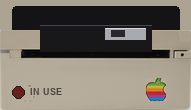
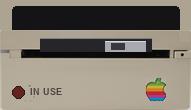
style(IIgs ui): show only the disk's leading edge in the 3.5" slot
The loaded art drew a full card standing in the slot, and once the band above the
face went dark the two touched and turned the top half of the icon into one black
mass. A 14px edge with the metal shutter keeps the 3.5" cue and leaves the beige
face visible between them.

Changed region(s): [[0.2094, 0.2182, 0.8115, 0.4909]]

diff --git a/AGENTS.md b/AGENTS.md
@@ -510,7 +510,10 @@ platform is ROM 03).
   the 5.25" motor line never drives it. The icons are composited from
   `apple-35-floppy-drive.png` with the house layout (activity lamp bottom-left,
   filename across the slot, rainbow apple bottom-right so it shares the Disk II
-  and hard-card corner, which is also where the swapper badge lands).
+  and hard-card corner, which is also where the swapper badge lands). The loaded
+  art shows only the disk's **leading edge** in the slot: a full card standing up
+  there touches the dark band and the two merge into one black mass over the top
+  half of the icon.
 - The 3.5" icon's dark band carries the white filename, so its geometry is bound to
   the CSS overlay: the band is **inset with a beige margin** (like the hard card)
   because a full-bleed black strip fuses with the panel's 1px `.disk-image` border
